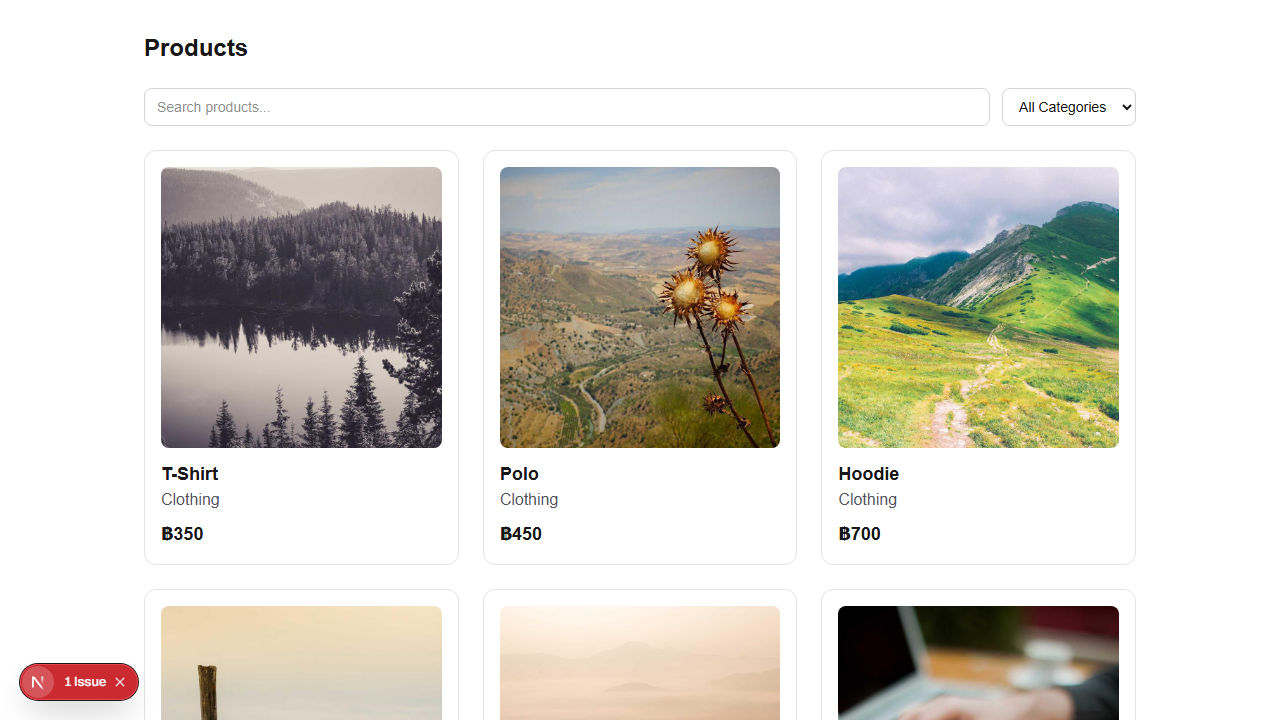
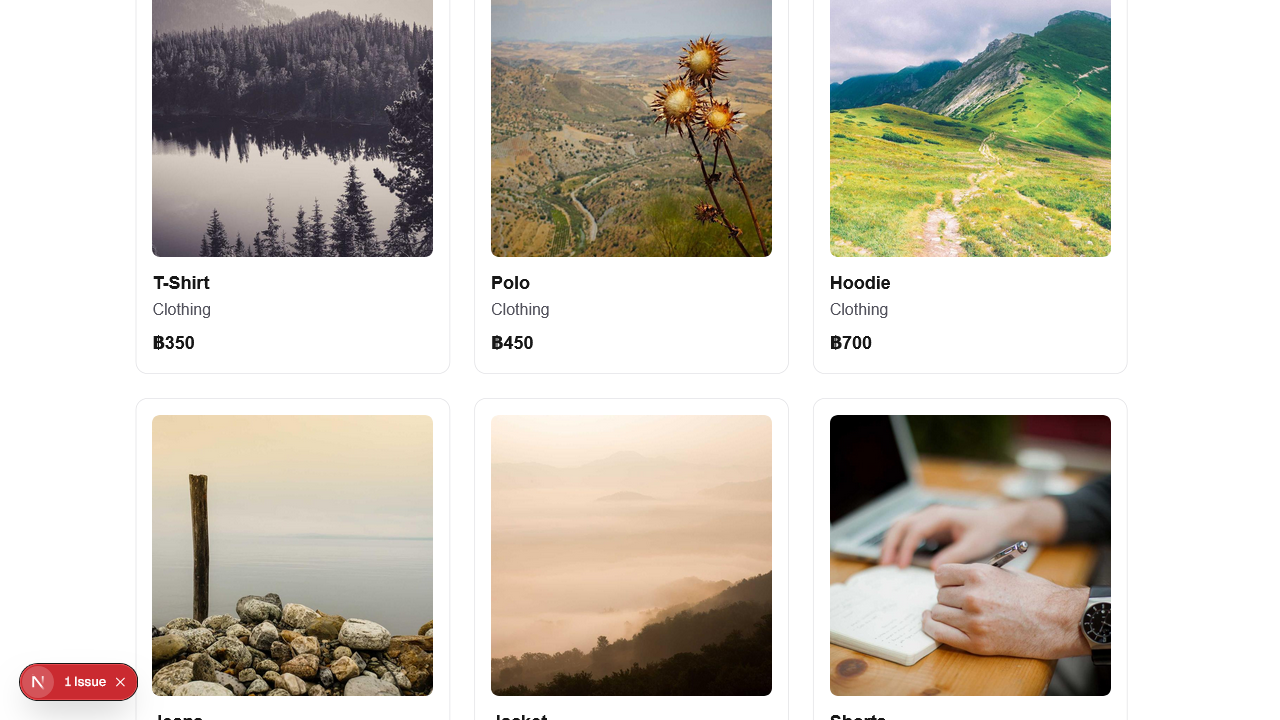
Chaptor03

diff --git a/tests/Chaptor03/02_Grouping_Test.spec.ts b/tests/Chaptor03/02_Grouping_Test.spec.ts
@@ -1,0 +1,34 @@
+import {test,expect} from "@playwright/test"
+
+test.describe("Smoketesting",()=>{
+    test("grouping in playwright test 1",async ({page})=>{
+        await page.goto("http://localhost:3000/practice")
+    
+        await page.getByRole("textbox",({name:"username"})).fill("student")
+        await page.getByRole("textbox",({name:"password"})).fill("student123")
+    
+        await page.getByRole("button",({name:"Login"})).click()
+    
+        await expect(page).toHaveURL(/localhost:3000/)
+    })
+    test("grouping in playwright test 2",async ({page})=>{
+        await page.goto("http://localhost:3000/practice")
+    
+        await page.getByRole("textbox",({name:"username"})).fill("student")
+        await page.getByRole("textbox",({name:"password"})).fill("student123")
+    
+        await page.getByRole("button",({name:"Login"})).click()
+    
+        await expect(page).toHaveURL(/localhost:3000/)
+    })
+    test("grouping in playwright test 3",async ({page})=>{
+        await page.goto("http://localhost:3000/practice")
+    
+        await page.getByRole("textbox",({name:"username"})).fill("student")
+        await page.getByRole("textbox",({name:"password"})).fill("student123")
+    
+        await page.getByRole("button",({name:"Login"})).click()
+    
+        await expect(page).toHaveURL(/localhost:3000/)
+    })
+})

diff --git a/tests/Chaptor03/01_Annotation.spec.ts b/tests/Chaptor03/01_Annotation.spec.ts
@@ -1,0 +1,32 @@
+import {test,expect} from "@playwright/test"
+
+test("Test 1",async ({page})=>{
+    await page.goto("http://localhost:3000/practice")
+
+    await page.getByRole("textbox",({name:"username"})).fill("student")
+    await page.getByRole("textbox",({name:"password"})).fill("student123")
+
+    await page.getByRole("button",({name:"Login"})).click()
+
+    await expect(page).toHaveURL(/localhost:3000/)
+})
+test.skip("Test 2",async ({page})=>{
+    await page.goto("http://localhost:3000/practice")
+
+    await page.getByRole("textbox",({name:"username"})).fill("student")
+    await page.getByRole("textbox",({name:"password"})).fill("student123")
+
+    await page.getByRole("button",({name:"Login"})).click()
+
+    await expect(page).toHaveURL(/localhost:3000/)
+})
+test.only("Test 3",async ({page})=>{
+    await page.goto("http://localhost:3000/practice")
+
+    await page.getByRole("textbox",({name:"username"})).fill("student")
+    await page.getByRole("textbox",({name:"password"})).fill("student123")
+
+    await page.getByRole("button",({name:"Login"})).click()
+
+    await expect(page).toHaveURL("http://localhost:3000/")
+})

diff --git a/playwright.config.ts b/playwright.config.ts
@@ -13,23 +13,32 @@ import { defineConfig, devices } from '@playwright/test';
  */
 export default defineConfig({
   testDir: './tests',
+  timeout: 5000,
+  expect:{
+    timeout:30000,
+  },
   /* Run tests in files in parallel */
   fullyParallel: true,
   /* Fail the build on CI if you accidentally left test.only in the source code. */
   forbidOnly: !!process.env.CI,
   /* Retry on CI only */
-  retries: process.env.CI ? 2 : 0,
+  retries: 0,
   /* Opt out of parallel tests on CI. */
   workers: 1,
   /* Reporter to use. See https://playwright.dev/docs/test-reporters */
-  reporter: 'html',
+  reporter: [
+    ['html'],
+    // ['allure-playwright',{outputFolder:'allure-report'}]
+  ],
   /* Shared settings for all the projects below. See https://playwright.dev/docs/api/class-testoptions. */
   use: {
     /* Base URL to use in actions like `await page.goto('')`. */
     // baseURL: 'http://localhost:3000',
-    headless:false,
+    headless:true,
     testIdAttribute:"data-testid",
     /* Collect trace when retrying the failed test. See https://playwright.dev/docs/trace-viewer */
+    screenshot:"on",
+    video:"on",
     trace: 'on-first-retry',
   },
 
@@ -40,10 +49,10 @@ export default defineConfig({
       use: { ...devices['Desktop Chrome'] },
     },
 
-    {
-      name: 'firefox',
-      use: { ...devices['Desktop Firefox'] },
-    },
+    // {
+    //   name: 'firefox',
+    //   use: { ...devices['Desktop Firefox'] },
+    // },
 
     // {
     //   name: 'webkit',
@@ -65,10 +74,10 @@ export default defineConfig({
     //   name: 'Microsoft Edge',
     //   use: { ...devices['Desktop Edge'], channel: 'msedge' },
     // },
-    // {
-    //   name: 'Google Chrome',
-    //   use: { ...devices['Desktop Chrome'], channel: 'chrome' },
-    // },
+    {
+      name: 'Google Chrome',
+      use: { ...devices['Desktop Chrome'], channel: 'chrome' },
+    },
   ],
 
   /* Run your local dev server before starting the tests */

diff --git a/tests/Chaptor03/03_Tagname.spec.ts b/tests/Chaptor03/03_Tagname.spec.ts
@@ -1,0 +1,22 @@
+import {test,expect} from "@playwright/test"
+
+test("grouping in playwright test 1",{tag:["@Smoketest"]}, async ({ page }) => {
+    await page.goto("http://localhost:3000/practice")
+
+    await page.getByRole("textbox", ({ name: "username" })).fill("student")
+    await page.getByRole("textbox", ({ name: "password" })).fill("student123")
+
+    await page.getByRole("button", ({ name: "Login" })).click()
+
+    await expect(page).toHaveURL(/localhost:3000/)
+})
+test("grouping in playwright test 2",{tag:["@Smoketest","@RegressionTest"]}, async ({ page }) => {
+    await page.goto("http://localhost:3000/practice")
+
+    await page.getByRole("textbox", ({ name: "username" })).fill("student")
+    await page.getByRole("textbox", ({ name: "password" })).fill("student123")
+
+    await page.getByRole("button", ({ name: "Login" })).click()
+
+    await expect(page).toHaveURL(/localhost:3002/)
+})

diff --git a/tests/Chaptor03/04_Parameterize.spec.ts b/tests/Chaptor03/04_Parameterize.spec.ts
@@ -1,0 +1,16 @@
+import {test,expect} from "@playwright/test"
+
+const searchKeywords = ["Wallet","Shirt","Jacket"]
+
+for(let searchKeyword of searchKeywords){
+    test(`Parameterize in playwright ${searchKeyword}`, async ({ page }) => {
+        await page.goto("http://localhost:3000/")
+    
+        await page.getByRole('textbox',{name:'Search products...'}).fill(searchKeyword)
+        await page.getByRole('textbox',{name:'Search products...'}).press("Enter")
+
+        await page.getByRole("link",{name:searchKeyword}).click()
+
+        await expect(page.getByText(searchKeyword)).toBeVisible()
+    })
+}

diff --git a/tests/Chaptor03/05_VisualTest.spec.ts b/tests/Chaptor03/05_VisualTest.spec.ts
@@ -1,0 +1,9 @@
+import {test,expect} from "@playwright/test"
+
+test("Visual Test in playwright",{tag:["@Smoketest"]}, async ({ page }) => {
+    await page.goto("http://localhost:3000/cart")
+
+    await expect(page).toHaveScreenshot("Learning.png")
+
+
+})